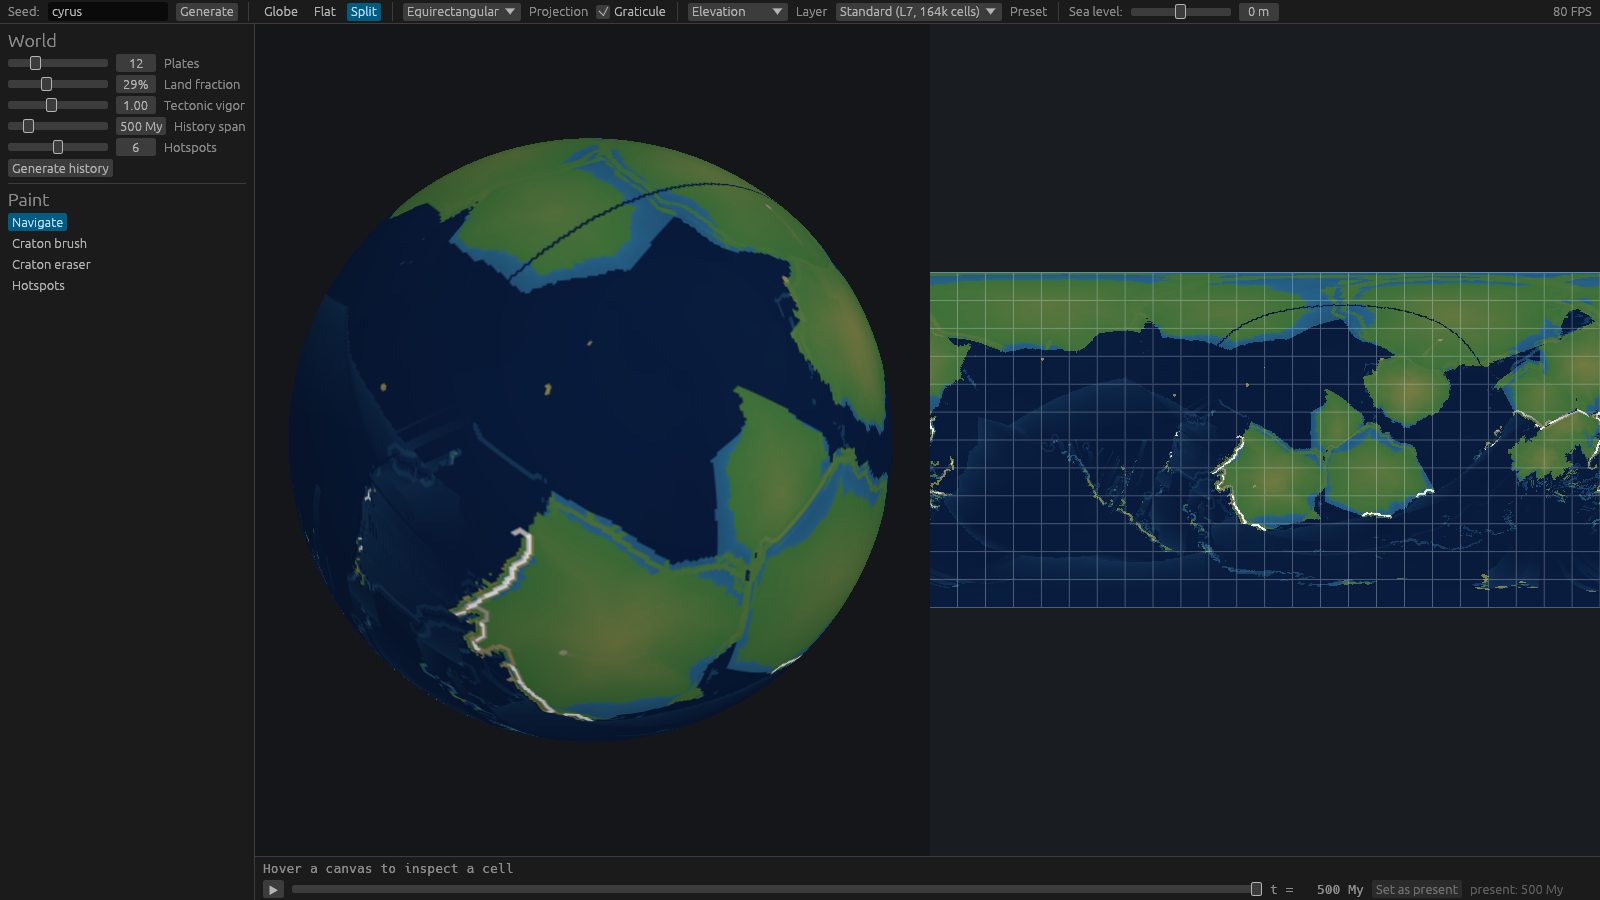
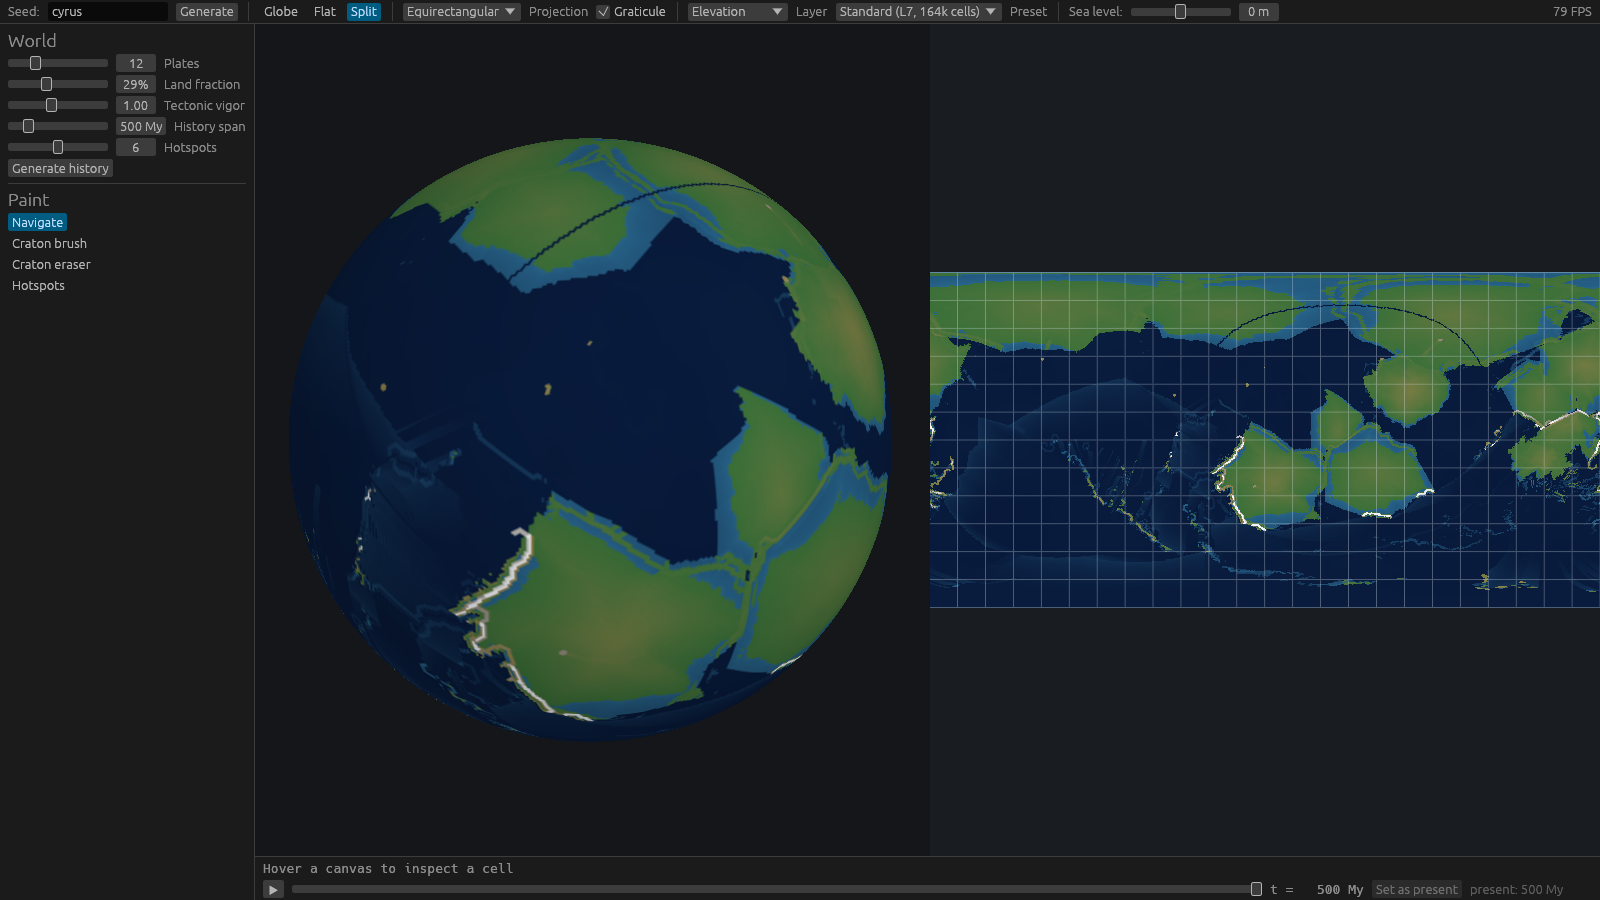
feat(sim): sea level anchors at t=0 and drifts with the hypsometry
Requested by Dan. The bisection solve runs once, on the initial state;
the datum then stays fixed for the whole run, so sea level rises and
falls with the seafloor age structure and coastlines flood and drain
through history (measured: land 29.0% -> 34.2% over 2 Gy at L6,
stabilizing). Dynamics are bit-identical - the plate golden is
unchanged; the elevation golden is regenerated deliberately and logged.
The datum rides in every keyframe, so resume stays bit-exact. Stability
gate now checks the anchor land fraction plus continental-inventory
drift; the over-run land range is recorded as data.

diff --git a/crates/worldmaker-sim/src/tectonics/elevation.rs b/crates/worldmaker-sim/src/tectonics/elevation.rs
@@ -72,20 +72,27 @@ pub(super) fn derive_and_solve(sim: &mut SimState, params: &TectonicsParams) {
     }
 
     // Sea-level solve: find s with count(elev < s) = ocean fraction. Integer
-    // counts only, fixed iteration count — deterministic.
-    let n = sim.elev.len();
-    let target_ocean = (((1.0 - params.land_fraction) as f64) * n as f64).round() as usize;
-    let (mut lo, mut hi) = (-9000.0f32, 9000.0f32);
-    for _ in 0..40 {
-        let mid = 0.5 * (lo + hi);
-        let below = sim.elev.par_iter().filter(|&&e| e < mid).count();
-        if below < target_ocean {
-            lo = mid;
-        } else {
-            hi = mid;
+    // counts only, fixed iteration count — deterministic. Solved ONCE, at
+    // the t = 0 anchor; afterwards the datum stays fixed so sea level drifts
+    // naturally with the hypsometry — plenty of young, shallow ocean floor
+    // raises it and floods low continents, an aging seafloor drains them
+    // (decision log, Dan). Anchoring at t = 0 also keeps resume-from-keyframe
+    // bit-exact: the offset rides along in every keyframe.
+    if sim.t_my == 0.0 {
+        let n = sim.elev.len();
+        let target_ocean = (((1.0 - params.land_fraction) as f64) * n as f64).round() as usize;
+        let (mut lo, mut hi) = (-9000.0f32, 9000.0f32);
+        for _ in 0..40 {
+            let mid = 0.5 * (lo + hi);
+            let below = sim.elev.par_iter().filter(|&&e| e < mid).count();
+            if below < target_ocean {
+                lo = mid;
+            } else {
+                hi = mid;
+            }
         }
+        sim.sea_offset_m = 0.5 * (lo + hi);
     }
-    let s = 0.5 * (lo + hi);
+    let s = sim.sea_offset_m;
     sim.elev.par_iter_mut().for_each(|e| *e -= s);
-    sim.sea_offset_m = s;
 }

diff --git a/crates/worldmaker-app/src/harness.rs b/crates/worldmaker-app/src/harness.rs
@@ -291,11 +291,16 @@ fn stability(
         "stability_breakup_count".into(),
         serde_json::json!(history.diagnostics.breakup_count),
     );
-    // Land within ±5% (relative) of the 0.29 parameter; plate count 6–24.
-    // The land gate alone is near-tautological (the per-keyframe sea-level
-    // solve pins it), so the quantity the solver CANNOT mask is gated too:
-    // continental-crust inventory drift over the whole run (review finding;
-    // decision log).
+    // Sea level is solved once at t = 0 and then drifts (decision log, Dan),
+    // so the land-fraction gate applies to the anchor keyframe — exact by
+    // construction — while the over-run range is recorded as data (the drift
+    // IS the feature). The quantity the solver cannot mask stays gated:
+    // continental-crust inventory drift over the whole run (review finding).
+    let land_first = first.elev_m.iter().filter(|&&e| e >= 0).count() as f64 / n;
+    metrics.insert(
+        "stability_land_fraction_anchor".into(),
+        serde_json::json!((land_first * 10_000.0).round() / 10_000.0),
+    );
     let cont_start = cont(first);
     let cont_end = cont(last);
     let cont_drift = (cont_end - cont_start).abs() / cont_start.max(1e-9);
@@ -306,8 +311,7 @@ fn stability(
     let target = 0.29;
     let pass = (6..=24).contains(&min_plates)
         && (6..=24).contains(&max_plates)
-        && (min_land - target).abs() / target <= 0.05
-        && (max_land - target).abs() / target <= 0.05
+        && (land_first - target).abs() / target <= 0.05
         && cont_drift <= 0.05;
     metrics.insert("stability_pass".into(), serde_json::json!(pass));
     pass

diff --git a/crates/worldmaker-sim/tests/tectonics_tests.rs b/crates/worldmaker-sim/tests/tectonics_tests.rs
@@ -83,17 +83,32 @@ fn short_run_produces_a_sane_world() {
             land += 1;
         }
     }
-    // The sea-level solve pins land fraction to the parameter (0.29).
+    // Sea level anchors to the parameter at t = 0 and then drifts with the
+    // hypsometry, so the final land fraction sits near — not on — the target.
     let land_frac = land as f32 / n as f32;
     assert!(
-        (land_frac - 0.29).abs() < 0.02,
-        "land fraction {land_frac} far from parameter"
+        (land_frac - 0.29).abs() < 0.05,
+        "land fraction {land_frac} drifted implausibly far from the 0.29 anchor"
     );
 
     // History: 200 My at 10 My cadence = 21 keyframes including t = 0.
     let hist = world.history.as_ref().unwrap();
     assert_eq!(hist.keyframes.len(), 21);
     assert_eq!(hist.hotspots.len(), 6);
+
+    // At the t = 0 anchor the solve is exact; the datum then stays fixed.
+    let kf0 = &hist.keyframes[0];
+    let land0 = kf0.elev_m.iter().filter(|&&e| e >= 0).count() as f32 / n as f32;
+    assert!(
+        (land0 - 0.29).abs() < 0.005,
+        "anchor land fraction {land0} not on the parameter"
+    );
+    assert!(
+        hist.keyframes
+            .iter()
+            .all(|kf| kf.sea_offset_m == kf0.sea_offset_m),
+        "sea datum must stay fixed after the anchor solve"
+    );
 
     // Plate count stays in the specified band.
     let final_kf = hist.keyframes.last().unwrap();

diff --git a/crates/worldmaker-sim/tests/determinism_tests.rs b/crates/worldmaker-sim/tests/determinism_tests.rs
@@ -52,7 +52,11 @@ fn fixed_seed_reproduces_committed_hash() {
 /// docs/results/tectonics-phase1-DESKTOP-VKD81C6.json); Linux CI must
 /// reproduce them bit-for-bit — the sim path uses only IEEE-exact operations
 /// (see worldmaker_core::dmath), and this test is what enforces it.
-const GOLDEN_TECTONIC_ELEVATION_L6_SEED42: u64 = 0x3e0d_ffc9_ef43_510e;
+///
+/// History: elevation regenerated 2026-08-19 when sea level switched from a
+/// per-keyframe re-solve to a fixed t=0 datum (decision log, Dan). The plate
+/// golden was untouched — proof the change was display-datum only.
+const GOLDEN_TECTONIC_ELEVATION_L6_SEED42: u64 = 0xf751_0e72_14ed_5b62;
 const GOLDEN_TECTONIC_PLATES_L6_SEED42: u64 = 0x70df_6db8_ec5f_653d;
 
 #[test]

diff --git a/docs/plan/decision-log.md b/docs/plan/decision-log.md
@@ -50,3 +50,4 @@ One line per decision: date, the decision, why/scope, and who made it
 | 2026-08-19 | Age-depth metric also excludes cells with >0.1 km hotspot buildup (the sub-flag skirt of a shield) — "hotspot cells" by relief, not only by flag. | default |
 | 2026-08-19 | The simulated span rounds to whole keyframes, so no steps are simulated past the last snapshot. | default |
 | 2026-08-19 | Plates layer colors index by the rank of alive plate ids in the keyframe (≤24 alive → never a collision), not raw id mod 24 — breakup-minted ids no longer alias colors. | default |
+| 2026-08-19 | Sea level: solved once at the t=0 anchor (land fraction exact there), then the datum stays fixed so sea level drifts with the hypsometry — coastlines flood and drain through history. Measured: land 0.290→0.341 over 2 Gy at L6, stabilizing; dynamics bit-identical (plate golden unchanged); elevation golden regenerated. Stability gate now checks the anchor land fraction + continental-inventory drift; the over-run land range is recorded as data. | Dan |

diff --git a/docs/plan/tectonics-design.md b/docs/plan/tectonics-design.md
@@ -96,9 +96,13 @@ axis → craton overlay applied last → hotspots ≥ 15° apart.
 6. **Elevation** (keyframe steps only; never integrated): continent
    150 m/km above 35 km; ocean −(2600 + 365·√age) floored at −5,600;
    trench blend 75% toward −8,500; arc +2,000 m; buildup ×1,000 (ocean) /
-   ×400 (continent) m/km; ±300 m fBm detail. Sea level bisected (40
-   iterations, integer counts) to the ocean-fraction target; elevations
-   stored relative to it; the offset is recorded per keyframe.
+   ×400 (continent) m/km; ±300 m fBm detail. Sea level is bisected (40
+   iterations, integer counts) to the ocean-fraction target ONCE, at the
+   t = 0 anchor; the datum then stays fixed for the whole run, so sea level
+   drifts with the hypsometry and coastlines flood and drain through history
+   (decision log, Dan). Elevations are stored relative to the datum, which
+   rides along in every keyframe — resume stays bit-exact — and the UI
+   sea-level slider is an offset around it.
 
 ## 5. Keyframes
 
